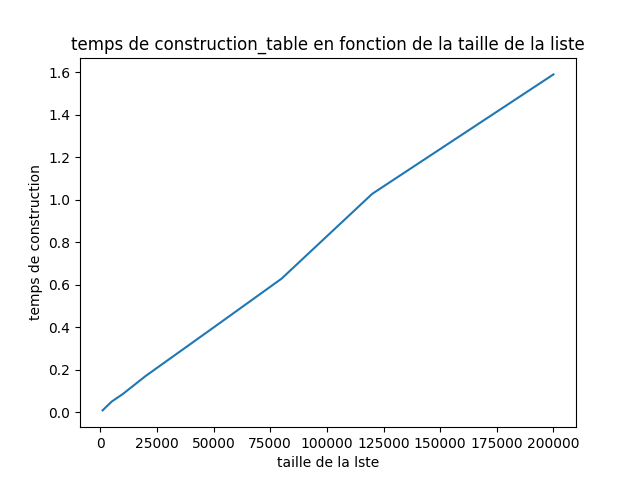
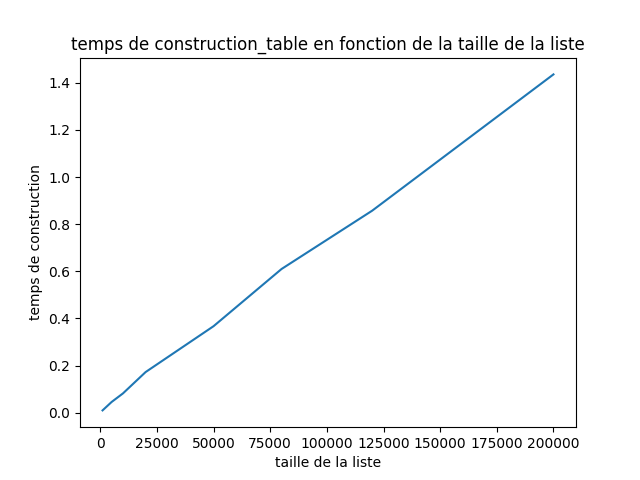
construc et test maj

diff --git a/algos.py b/algos.py
@@ -142,12 +142,47 @@ class MinHeapBinaryTree:
             return False
         return self._verify_min_heap_property(node.left) and self._verify_min_heap_property(node.right)
     
-
-
-
-
-# https://www.geeksforgeeks.org/when-building-a-heap-is-the-structure-of-heap-unique/
-
+    # pseudo code construction
+    # construction(keys):
+    #   noeuds = [MinHeapNode(key) for key in keys] # on crée les noeuds pour chaque clé du tas et on les stocke dans une liste
+    #   tas = MinHeapBinaryTree() # on crée un tas vide
+    #   tas.root = noeuds[0] # on met le premier noeud de la liste comme racine du tas
+    #   tas.size = length(keys) # on met à jour la taille du tas
+    #   pour i de 0 à length(keys): # on parcourt les noeuds du tas
+    #       si 2*i+1 < length(keys): # si le noeud courant a un fils gauche
+    #           noeuds[i].left = noeuds[2*i+1] # on met le fils gauche du noeud courant
+    #           noeuds[2*i+1].parent = noeuds[i] # on met le noeud courant comme parent du fils gauche
+    #          noeuds[2*i+1].hight = noeuds[i].hight + 1 # on met à jour la hauteur du fils gauche
+    #           tas.root.deepest = noeuds[2*i+1] # on met à jour le noeud le plus profond du tas
+    #       si 2*i+2 < length(keys): # si le noeud courant a un fils droit
+    #           noeuds[i].right = noeuds[2*i+2] # on met le fils droit du noeud courant
+    #           noeuds[2*i+2].parent = noeuds[i] # on met le noeud courant comme parent du fils droit
+    #           noeuds[2*i+2].hight = noeuds[i].hight + 1 # on met à jour la hauteur du fils droit
+    #           tas.root.deepest = noeuds[2*i+2] # on met à jour le noeud le plus profond du tas
+    #   pour i de length(keys)//2 à 0: # on parcourt les noeuds non feuilles du tas de la fin vers le début
+    #       tas._heapify_down(noeuds[i]) # on heapify le noeud courant
+    #   return tas
+    def construction(self, keys):# pseudo code
+        # Cree les noeuds pour chaque cle du tas et les stocke dans une liste nodes
+        nodes = [MinHeapNode(key) for key in keys]
+        self.root = nodes[0]
+        self.size = len(keys)
+        # Lie les noeuds entre eux pour former un arbre binaire complet
+        for i in range(len(nodes)):
+            if 2*i+1 < len(nodes):
+                nodes[i].left = nodes[2*i+1]
+                nodes[2*i+1].parent = nodes[i]
+                nodes[2*i+1].hight = nodes[i].hight + 1
+                self.root.deepest = nodes[2*i+1]
+            if 2*i+2 < len(nodes):
+                nodes[i].right = nodes[2*i+2]
+                nodes[2*i+2].parent = nodes[i]
+                nodes[2*i+2].hight = nodes[i].hight + 1
+                self.root.deepest = nodes[2*i+2]
+        # Heapify the tree
+        for i in range(len(nodes)//2, -1, -1):
+            self._heapify_down(nodes[i])
+        return self
 
 
 exem = MinHeapBinaryTree()
@@ -253,6 +288,20 @@ class MinHeapTable:
                     return False
         return True
     
+    # Donner le pseudo code de la fonction avec des explications puis l’implémenter
+    # pseudo code
+    # build_heap(keys):
+    #    heap = keys # on ajoute les clés dans le tas
+    #    size = length(keys) # on met à jour la taille du tas
+    #    pour i de length(keys) // 2 à 0: # on parcourt les noeuds non feuilles du tas de la fin vers le début
+    #        _heapify(i) # on heapify le noeud courant
+    #    return heap
+    def construction(self, keys):
+        self.heap = keys[:]
+        print("len : " + str(len(keys)))
+        self.size = len(keys) 
+        self.minHeap()
+        return self    
         
 # heap_ex = MinHeapTable()
 # heap_ex._ajout_iteratif(listofvalues)
@@ -272,72 +321,10 @@ class MinHeapTable:
 # last element : (6242588491462870437, 8850496006118104447)
 
 
-# Donner le pseudo code de la fonction avec des explications puis l’implémenter
-    # pseudo code
-    # build_heap(keys):
-    #    V = tas_vide() # on crée un tas vide
-    #    V.heap = keys # on ajoute les clés dans le tas
-    #    V.size = length(keys) # on met à jour la taille du tas
-    #    pour i de length(keys) // 2 à 0: # on parcourt les noeuds non feuilles du tas de la fin vers le début
-    #        V._heapify(i) # on heapify le noeud courant
-    #    return V
-def build_heap_table(keys):
-    heap = MinHeapTable()
-    heap.heap = keys[:]
-    print("len : " + str(len(keys)))
-    heap.size = len(keys) 
-    heap.minHeap()
-    return heap
 
-# Start from the middle of the array and process all elements in left direction using _heapify_down.
-# Since we're starting from the middle, we're guaranteed to have children for all nodes and
-# we don't need to check for children while calling _heapify_down.
-# Repeat the above step for all elements in the array.
-# pseudo code
-# build_heap(keys):
-#   noeuds = [MinHeapNode(key) for key in keys] # on crée les noeuds pour chaque clé du tas et on les stocke dans une liste
-#   tas = MinHeapBinaryTree() # on crée un tas vide
-#   tas.root = noeuds[0] # on met le premier noeud de la liste comme racine du tas
-#   tas.size = length(keys) # on met à jour la taille du tas
-#   pour i de 0 à length(keys): # on parcourt les noeuds du tas
-#       si 2*i+1 < length(keys): # si le noeud courant a un fils gauche
-#           noeuds[i].left = noeuds[2*i+1] # on met le fils gauche du noeud courant
-#           noeuds[2*i+1].parent = noeuds[i] # on met le noeud courant comme parent du fils gauche
-#          noeuds[2*i+1].hight = noeuds[i].hight + 1 # on met à jour la hauteur du fils gauche
-#           tas.root.deepest = noeuds[2*i+1] # on met à jour le noeud le plus profond du tas
-#       si 2*i+2 < length(keys): # si le noeud courant a un fils droit
-#           noeuds[i].right = noeuds[2*i+2] # on met le fils droit du noeud courant
-#           noeuds[2*i+2].parent = noeuds[i] # on met le noeud courant comme parent du fils droit
-#           noeuds[2*i+2].hight = noeuds[i].hight + 1 # on met à jour la hauteur du fils droit
-#           tas.root.deepest = noeuds[2*i+2] # on met à jour le noeud le plus profond du tas
-#   pour i de length(keys)//2 à 0: # on parcourt les noeuds non feuilles du tas de la fin vers le début
-#       tas._heapify_down(noeuds[i]) # on heapify le noeud courant
-#   return tas
 
-def build_heap_tree(keys):
-    # Create nodes for each key
-    nodes = [MinHeapNode(key) for key in keys]
-    heap = MinHeapBinaryTree()
-    heap.root = nodes[0]
-    heap.size = len(keys)
-    # Link parents and children using the list of nodes and adjust the height and the deepest node
-    for i in range(len(nodes)):
-        if 2*i+1 < len(nodes):
-            nodes[i].left = nodes[2*i+1]
-            nodes[2*i+1].parent = nodes[i]
-            nodes[2*i+1].hight = nodes[i].hight + 1
-            heap.root.deepest = nodes[2*i+1]
-        if 2*i+2 < len(nodes):
-            nodes[i].right = nodes[2*i+2]
-            nodes[2*i+2].parent = nodes[i]
-            nodes[2*i+2].hight = nodes[i].hight + 1
-            heap.root.deepest = nodes[2*i+2]
-    # Heapify the tree
-    for i in range(len(nodes)//2, -1, -1):
-        heap._heapify_down(nodes[i])
-    return heap
-
-# ex2 = build_heap_tree(listofvalues)
+# ex2 = MinHeapBinaryTree()
+# ex2.construction(listofvalues)
 # # ex2.print_heap()
 # print("min tree of build tree : " +str(ex2.suppmin()) + "\n\n")
 # print("min tree of build tree : " +str(ex2.suppmin()) + "\n\n")
@@ -347,21 +334,21 @@ def build_heap_tree(keys):
 
 
 
-ex = build_heap_table(listofvalues)
+ex =  MinHeapTable()
+ex.construction(listofvalues)
 # ex.print_heap()
 # print("last element : " + str(ex.heap[ex.size-1]) + "\n\n")
 # print("min : " +str(ex._suppmin()) + "\n\n")
 
 
-# il manque la gestion de l'implémentation de la fonction Union pour la classe MinHeapBinaryTree
-def Union (heap1, heap2, _class = MinHeapTable):
-    heap = _class()
+def Union (heap1, heap2):
+    heap = MinHeapTable()
     heap.heap = heap1.heap[:] + heap2.heap[:]
     heap.size = heap1.size + heap2.size
     heap.minHeap()
     return heap
 
-# je pense qu'on nous demande d'implémenter la fonction Union pour juste une des classes
+# je pense qu'on nous demande d'implémenter la fonction Union pour juste une des structures
 # def Union2 (heap1:MinHeapBinaryTree , heap2:MinHeapBinaryTree, _class = MinHeapBinaryTree):
 #     heap = _class()
 #     while heap1.root is not None and heap2.root is not None:
@@ -375,9 +362,11 @@ def Union (heap1, heap2, _class = MinHeapTable):
 #         heap.ajout(heap2.suppmin())
 #     return heap
 
-# heap1 = build_heap_table(listofvalues)
+# heap1 = MinHeapTable()
+# heap1.construction(listofvalues)
 # l = st.treat_from_file("cles_alea/jeu_5_nb_cles_1000.txt")
-# heap2 = build_heap_table(l)
+# heap2 = MinHeapTable()
+# heap2.construction(l)
 # heap3 = Union(heap1, heap2)
 # heap3.print_heap()
 # print("len heap1 : " + str(heap1.size) + "\n\n")
@@ -401,7 +390,8 @@ list_of_sizes = [1000, 5000 ,10000, 20000, 50000, 80000, 120000 ,200000]
 #         for i in range(1,6):
 #             list_of_values = st.treat_from_file("cles_alea/jeu_"+str(i)+"_nb_cles_"+str(size)+".txt")
 #             start_time = time.time()
-#             build_heap_table(list_of_values)
+#             heap = MinHeapTable()
+#             heap.construction(list_of_values)
 #             end_time = time.time()
 #             list_of_times_for_size.append(end_time - start_time)
 #         list_of_times.append(np.mean(list_of_times_for_size))
@@ -430,7 +420,8 @@ list_of_sizes = [1000, 5000 ,10000, 20000, 50000, 80000, 120000 ,200000]
 #         for i in range(1,6):
 #             list_of_values = st.treat_from_file("cles_alea/jeu_"+str(i)+"_nb_cles_"+str(size)+".txt")
 #             start_time = time.time()
-#             build_heap_tree(list_of_values)
+#             heap = MinHeapBinaryTree()
+#             heap.construction(list_of_values)
 #             end_time = time.time()
 #             list_of_times_for_size.append(end_time - start_time)
 #         list_of_times.append(np.mean(list_of_times_for_size))
@@ -498,28 +489,28 @@ list_of_sizes = [1000, 5000 ,10000, 20000, 50000, 80000, 120000 ,200000]
 
 
 
-def moyenne_temps_ajoutIteratif_table(list_of_sizes):
-    list_of_times = []
-    for size in list_of_sizes:
-        list_of_times_for_size = []
-        for i in range(1,6):
-            list_of_values = st.treat_from_file("cles_alea/jeu_"+str(i)+"_nb_cles_"+str(size)+".txt")
-            heap = MinHeapTable()
-            start_time = time.time()
-            heap._ajout_iteratif(list_of_values)
-            end_time = time.time()
-            list_of_times_for_size.append(end_time - start_time)
-        list_of_times.append(np.mean(list_of_times_for_size))
-    return list_of_times
+# def moyenne_temps_ajoutIteratif_table(list_of_sizes):
+#     list_of_times = []
+#     for size in list_of_sizes:
+#         list_of_times_for_size = []
+#         for i in range(1,6):
+#             list_of_values = st.treat_from_file("cles_alea/jeu_"+str(i)+"_nb_cles_"+str(size)+".txt")
+#             heap = MinHeapTable()
+#             start_time = time.time()
+#             heap._ajout_iteratif(list_of_values)
+#             end_time = time.time()
+#             list_of_times_for_size.append(end_time - start_time)
+#         list_of_times.append(np.mean(list_of_times_for_size))
+#     return list_of_times
 
-list_of_times = moyenne_temps_ajoutIteratif_table(list_of_sizes)
-plt.clf()
-plt.plot(list_of_sizes, list_of_times)
-plt.xlabel("taille de la lste")
-plt.ylabel("temps d'ajout")
-plt.title("temps d'ajout en fonction de la taille de la liste")
-# plt.show()
-plt.savefig("experiments/temps_d_ajoutIteratif_table.png")
+# list_of_times = moyenne_temps_ajoutIteratif_table(list_of_sizes)
+# plt.clf()
+# plt.plot(list_of_sizes, list_of_times)
+# plt.xlabel("taille de la lste")
+# plt.ylabel("temps d'ajout")
+# plt.title("temps d'ajout en fonction de la taille de la liste")
+# # plt.show()
+# plt.savefig("experiments/temps_d_ajoutIteratif_table.png")
 
 # def moyenne_temps_ajoutIteratif_tree(list_of_sizes):
 #     list_of_times = []
@@ -545,44 +536,48 @@ plt.savefig("experiments/temps_d_ajoutIteratif_table.png")
 # plt.savefig("experiments/temps_d_ajout_tree.png")
 
 
-# le test d'union fait les tests suivant :
-# pour une taille de liste donnée,exemple 1000, fait jeu1 union jeu2, jeu2 union jeu3, jeu3 union jeu4 et jeu4 union jeu5
-# def moyenne_temps_union_table(list_of_sizes):
-#     list_of_times = []
-#     for size in list_of_sizes:
-#         list_of_times_for_size = []
-#         for i in range(1,5 , 1):
-#             list_of_values1 = st.treat_from_file("cles_alea/jeu_"+str(i)+"_nb_cles_"+str(size)+".txt")
-#             list_of_values2 = st.treat_from_file("cles_alea/jeu_"+str(i+1)+"_nb_cles_"+str(size)+".txt")
-#             heap1 = build_heap_table(list_of_values1)
-#             heap2 = build_heap_table(list_of_values2)
-#             start_time = time.time()
-#             Union(heap1, heap2)
-#             end_time = time.time()
-#             list_of_times_for_size.append(end_time - start_time)
-#         list_of_times.append(np.mean(list_of_times_for_size))
-#     return list_of_times
+# # le test d'union fait les tests suivant :
+# # pour une taille de liste donnée,exemple 1000, fait jeu1 union jeu2, jeu2 union jeu3, jeu3 union jeu4 et jeu4 union jeu5
+def moyenne_temps_union_table(list_of_sizes):
+    list_of_times = []
+    for size in list_of_sizes:
+        list_of_times_for_size = []
+        for i in range(1,5 , 1):
+            list_of_values1 = st.treat_from_file("cles_alea/jeu_"+str(i)+"_nb_cles_"+str(size)+".txt")
+            list_of_values2 = st.treat_from_file("cles_alea/jeu_"+str(i+1)+"_nb_cles_"+str(size)+".txt")
+            heap1 = MinHeapTable()
+            heap1.construction(list_of_values1)
+            heap2 = MinHeapTable()
+            heap2.construction(list_of_values2)
+            start_time = time.time()
+            Union(heap1, heap2)
+            end_time = time.time()
+            list_of_times_for_size.append(end_time - start_time)
+        list_of_times.append(np.mean(list_of_times_for_size))
+    return list_of_times
 
-# list_of_times = moyenne_temps_union_table(list_of_sizes)
-# plt.clf()
-# plt.plot(list_of_sizes, list_of_times)
-# plt.xlabel("taille de la lste")
-# plt.ylabel("temps d'union")
-# plt.title("temps d'union en fonction de la taille de la liste")
-# # plt.show()
-# plt.savefig("experiments/temps_d_union_table.png")
+list_of_times = moyenne_temps_union_table(list_of_sizes)
+plt.clf()
+plt.plot(list_of_sizes, list_of_times)
+plt.xlabel("taille de la lste")
+plt.ylabel("temps d'union")
+plt.title("temps d'union en fonction de la taille de la liste")
+# plt.show()
+plt.savefig("experiments/temps_d_union_table.png")
 
 
 
-# def moyenne_temps_union_table(list_of_sizes):
+# def moyenne_temps_union_tree(list_of_sizes):
 #     list_of_times = []
 #     for size in list_of_sizes:
 #         list_of_times_for_size = []
 #         for i in range(1,5 , 2):
 #             list_of_values1 = st.treat_from_file("cles_alea/jeu_"+str(i)+"_nb_cles_"+str(size)+".txt")
 #             list_of_values2 = st.treat_from_file("cles_alea/jeu_"+str(i+1)+"_nb_cles_"+str(size)+".txt")
-#             heap1 = build_heap_tree(list_of_values1)
-#             heap2 = build_heap_tree(list_of_values2)
+#             heap1 = MinHeapBinaryTree()
+#             heap1.construction(list_of_values1)
+#             heap2 = MinHeapBinaryTree()
+#             heap2.construction(list_of_values2)
 #             start_time = time.time()
 #             Union2(heap1, heap2)
 #             end_time = time.time()
@@ -590,7 +585,7 @@ plt.savefig("experiments/temps_d_ajoutIteratif_table.png")
 #         list_of_times.append(np.mean(list_of_times_for_size))
 #     return list_of_times
 
-# list_of_times = moyenne_temps_union_table(list_of_sizes)
+# list_of_times = moyenne_temps_union_tree(list_of_sizes)
 # plt.clf()
 # plt.plot(list_of_sizes, list_of_times)
 # plt.xlabel("taille de la lste")
